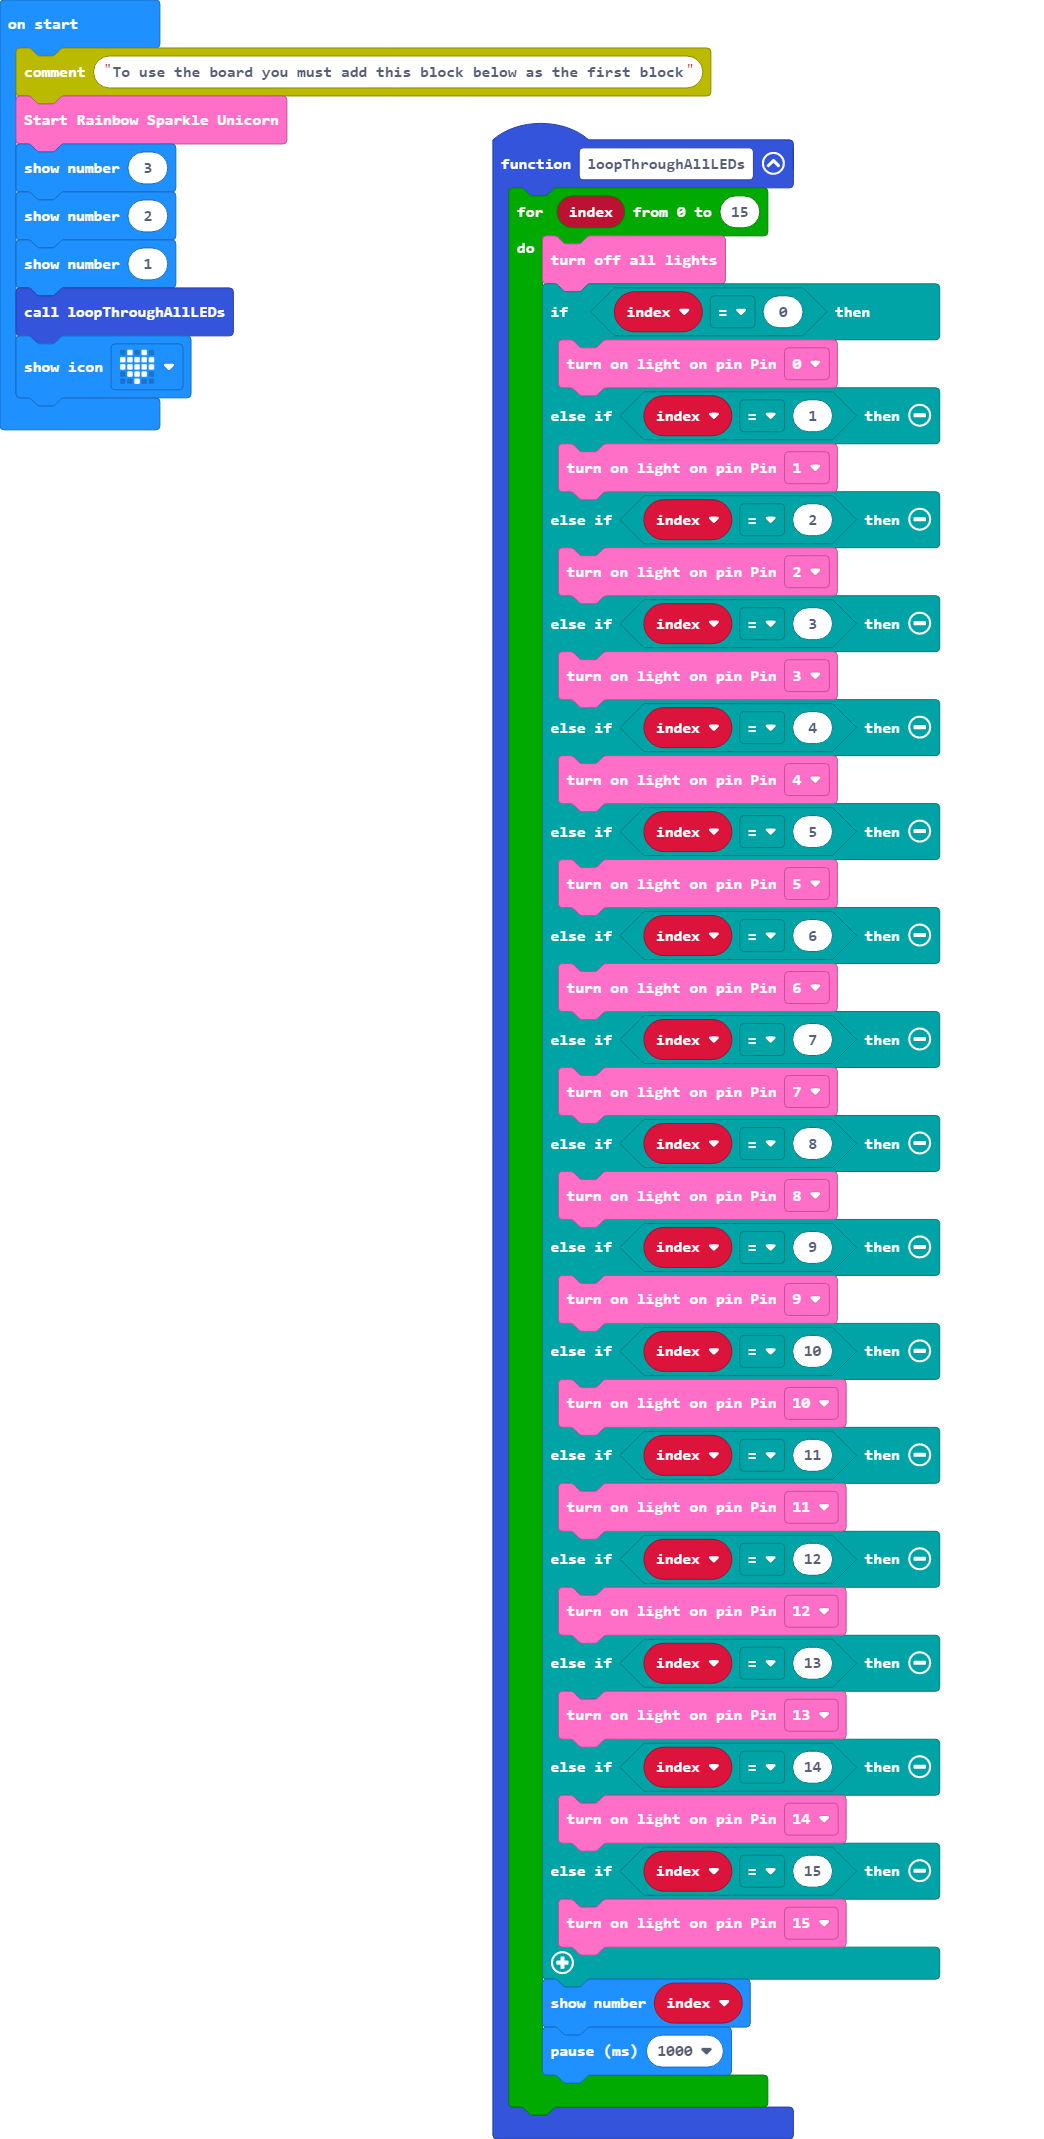
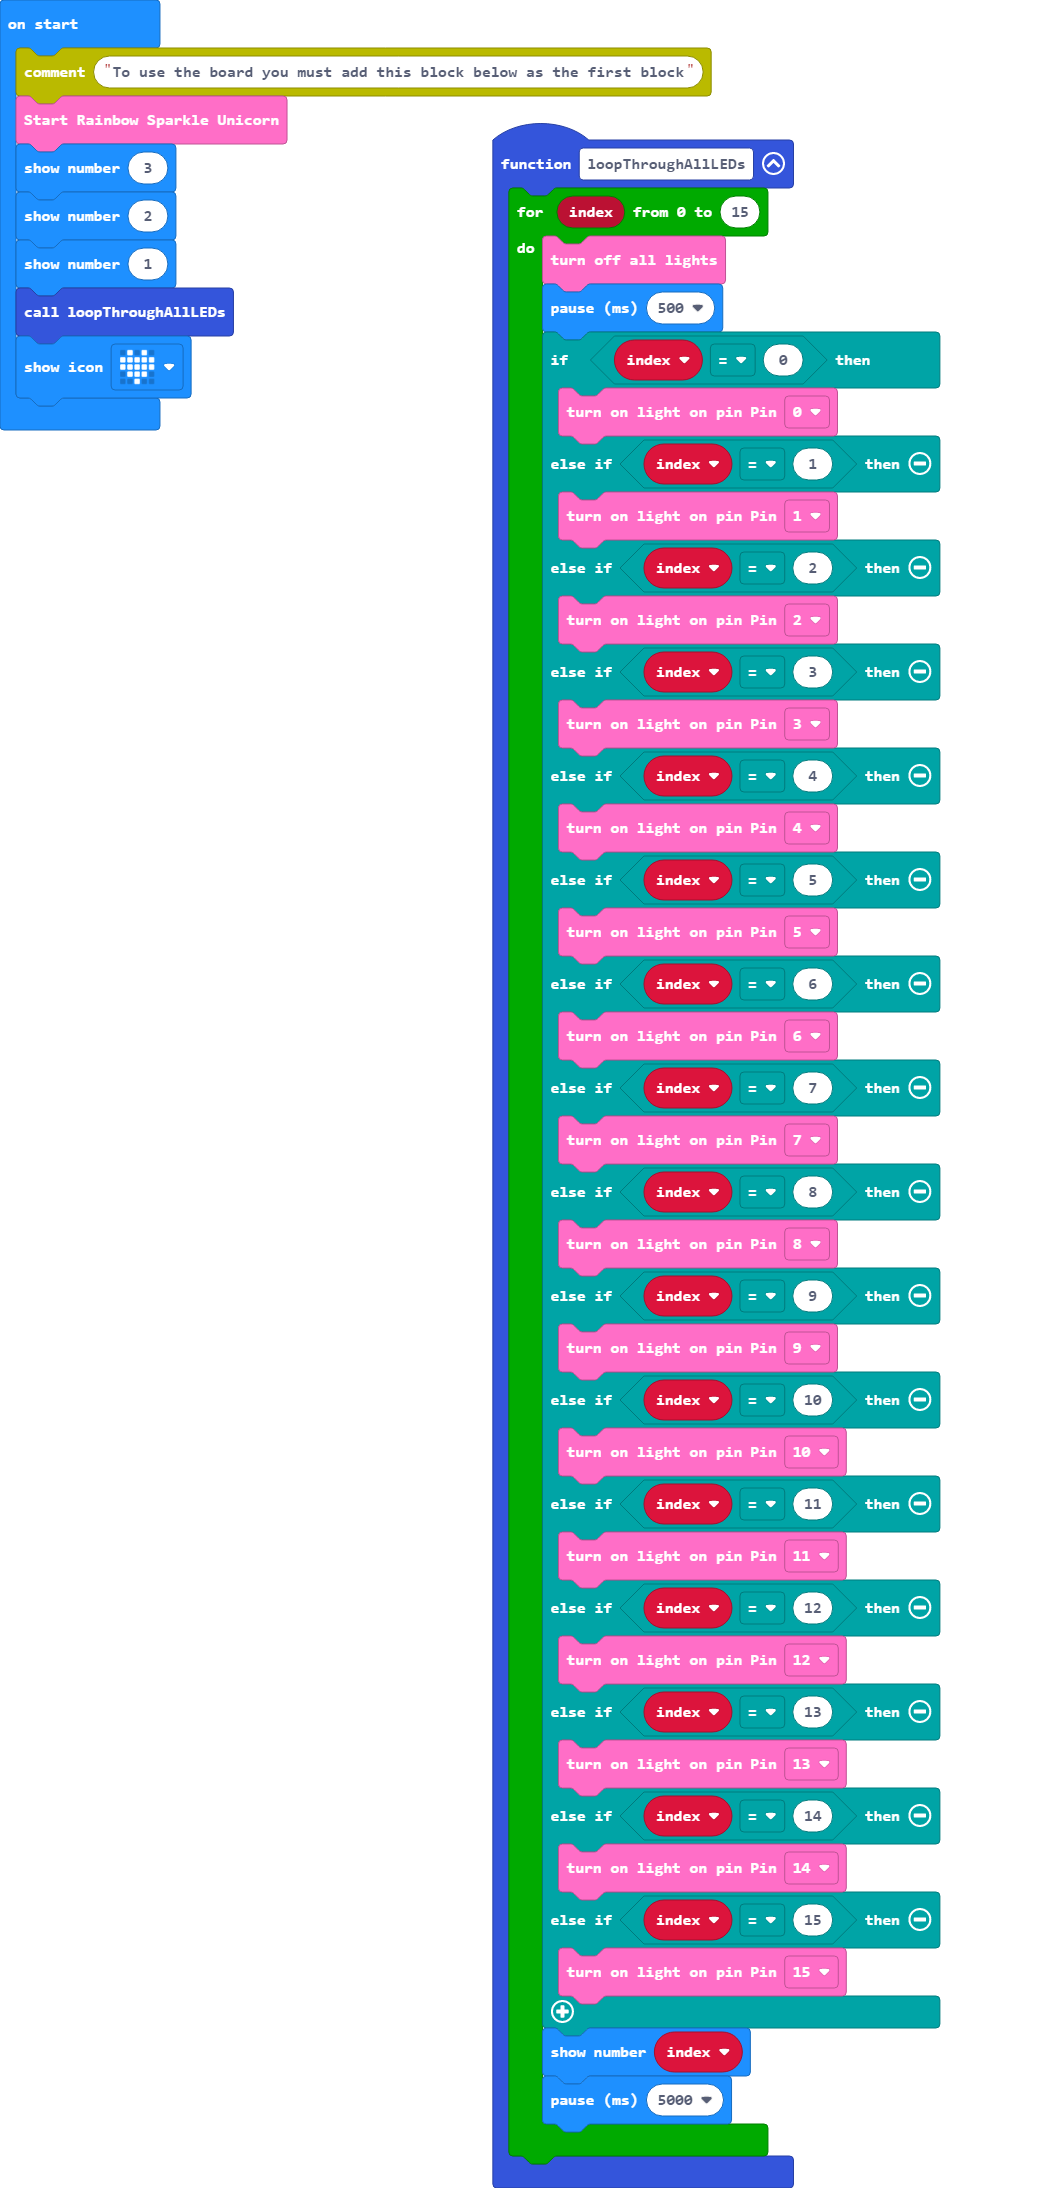
Update main.blocks, main.ts

Changed region(s): [[0.0, 0.0309, 0.9195, 0.9874]]

diff --git a/main.ts b/main.ts
@@ -1,6 +1,7 @@
 function loopThroughAllLEDs () {
     for (let index = 0; index <= 15; index++) {
         RainbowSparkleUnicorn.Light.turnAllOff()
+        basic.pause(500)
         if (index == 0) {
             RainbowSparkleUnicorn.Light.turnOn(lightPins.P0)
         } else if (index == 1) {
@@ -35,7 +36,7 @@ function loopThroughAllLEDs () {
             RainbowSparkleUnicorn.Light.turnOn(lightPins.P15)
         }
         basic.showNumber(index)
-        basic.pause(1000)
+        basic.pause(5000)
     }
 }
 comment.comment("To use the board you must add this block below as the first block")
